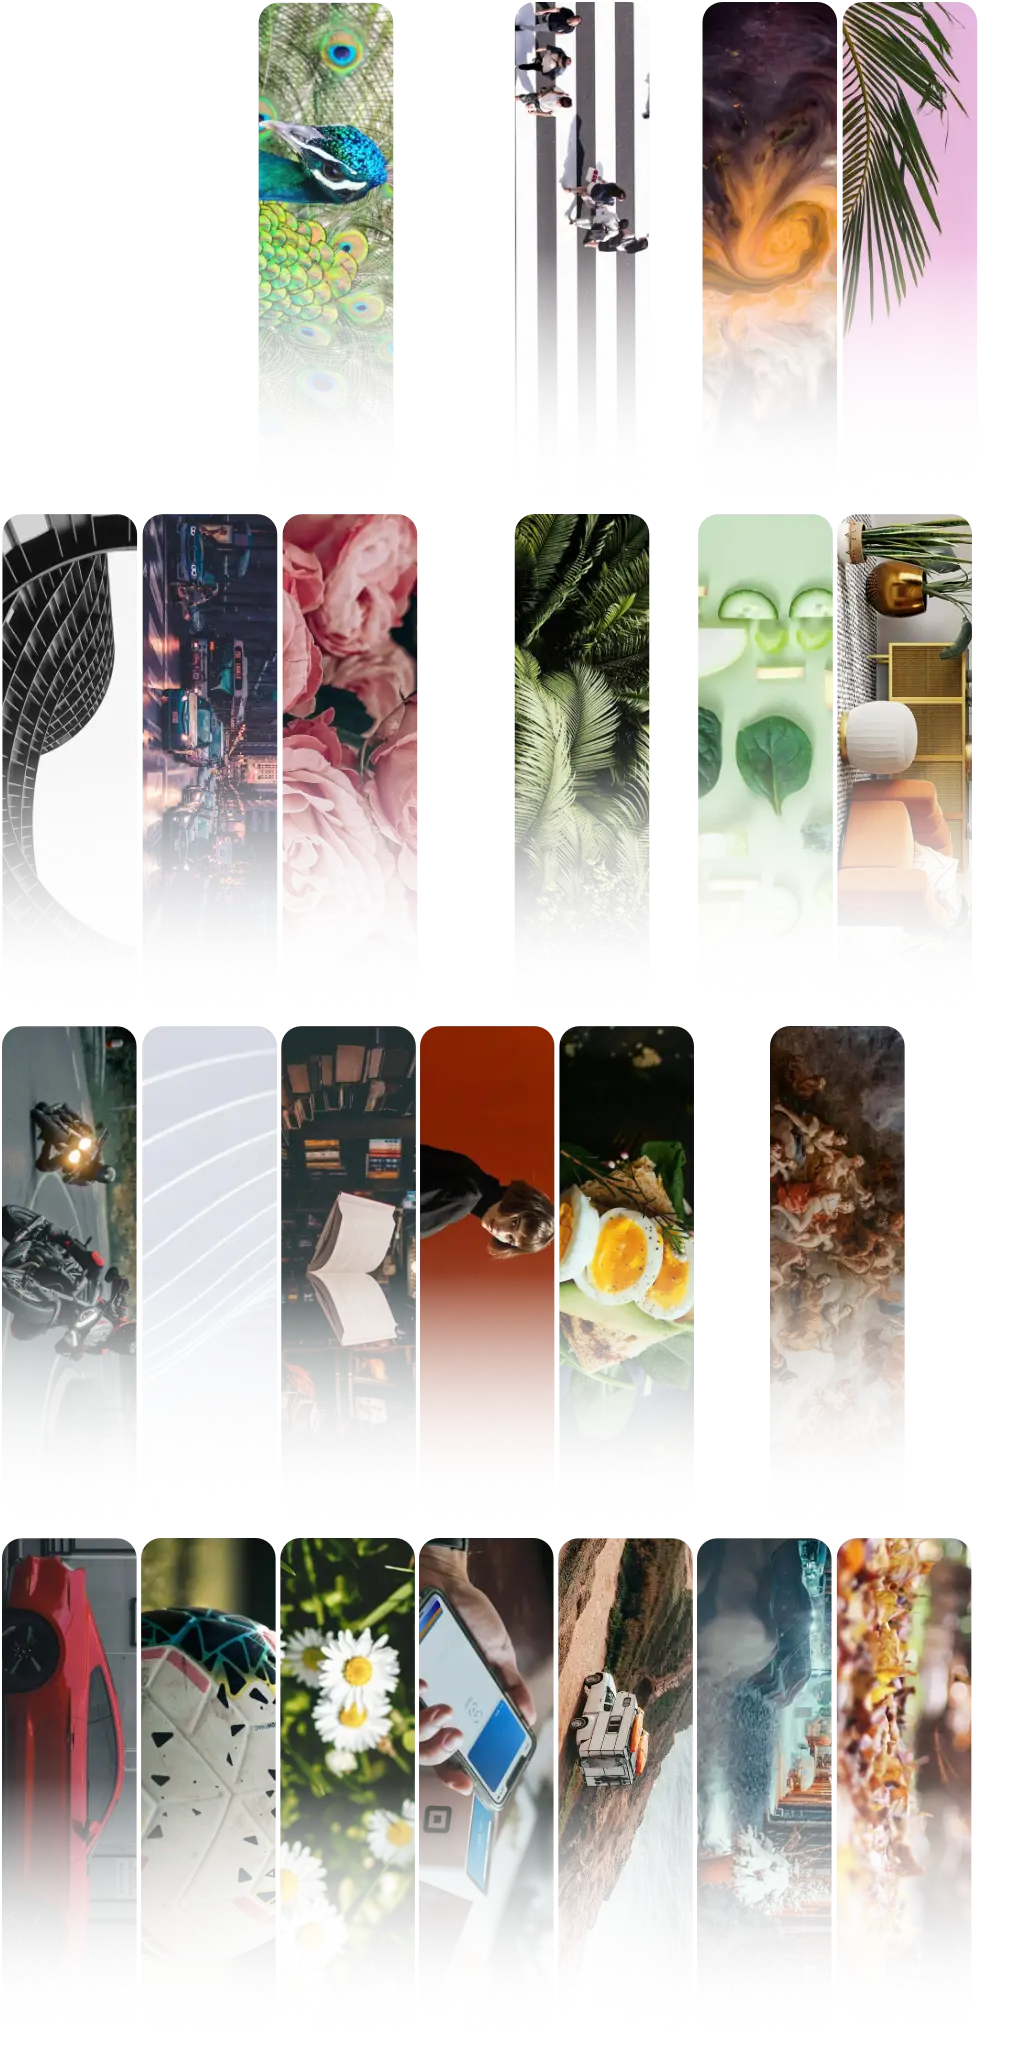
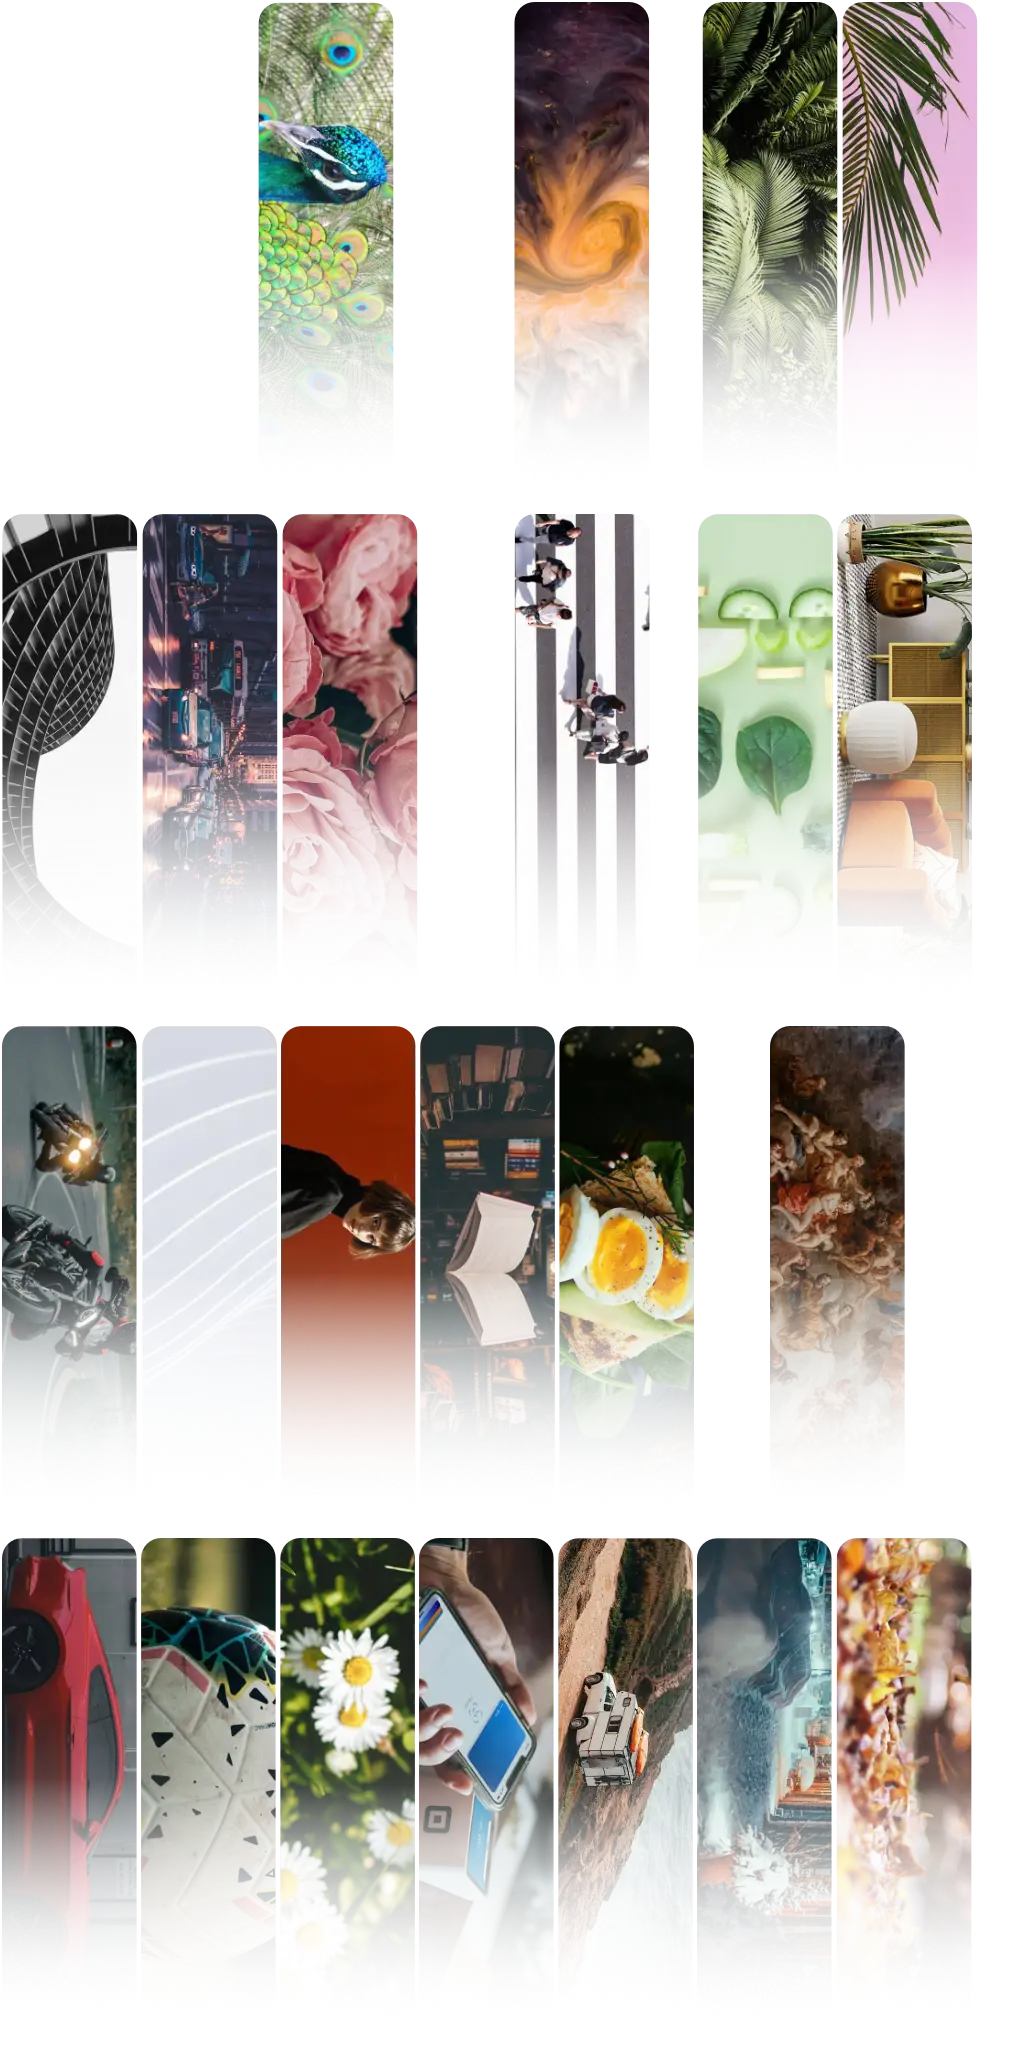
-

diff --git a/puzzlegame_test/game_html/scripts/c3runtime.js b/puzzlegame_test/game_html/scripts/c3runtime.js
@@ -2043,6 +2043,13 @@ self.C3_ExpressionFuncs = [
 			const n3 = p._GetNode(3);
 			return () => f0(1, Math.round((((v1.GetValue() * v2.GetValue()) * 0.08) * (1 + (n3.ExpObject() * 0.03)))));
 		},
+		() => "savedTime",
+		() => 5,
+		() => "sound",
+		p => {
+			const n0 = p._GetNode(0);
+			return () => n0.ExpObject("shows");
+		},
 		p => {
 			const n0 = p._GetNode(0);
 			const n1 = p._GetNode(1);
@@ -2260,7 +2267,6 @@ self.C3_ExpressionFuncs = [
 			const n0 = p._GetNode(0);
 			return () => (n0.ExpObject() * 1.4);
 		},
-		() => 5,
 		p => {
 			const f0 = p._GetNode(0).GetBoundMethod();
 			const v1 = p._GetNode(1).GetVar();
@@ -2479,7 +2485,6 @@ self.C3_ExpressionFuncs = [
 			const n0 = p._GetNode(0);
 			return () => ((n0.ExpObject()) ? (0) : (1));
 		},
-		() => "sound",
 		() => "progress",
 		() => "Tutorial",
 		p => {
@@ -2527,15 +2532,6 @@ self.C3_ExpressionFuncs = [
 			const n0 = p._GetNode(0);
 			const v1 = p._GetNode(1).GetVar();
 			return () => n0.ExpObject(("step6." + v1.GetValue()));
-		},
-		() => "savedTime",
-		p => {
-			const n0 = p._GetNode(0);
-			return () => n0.ExpObject("shows");
-		},
-		p => {
-			const f0 = p._GetNode(0).GetBoundMethod();
-			return () => f0("Data");
 		},
 		p => {
 			const n0 = p._GetNode(0);
@@ -2625,6 +2621,7 @@ self.C3_ExpressionFuncs = [
 		() => 30,
 		() => "Lang",
 		() => "lang",
+		() => "orderCategories",
 		p => {
 			const n0 = p._GetNode(0);
 			const v1 = p._GetNode(1).GetVar();
@@ -2637,7 +2634,10 @@ self.C3_ExpressionFuncs = [
 			const n1 = p._GetNode(1);
 			return () => f0(n1.ExpObject(), "");
 		},
-		() => "orderCategories",
+		p => {
+			const f0 = p._GetNode(0).GetBoundMethod();
+			return () => f0("Data");
+		},
 		() => "Segments",
 		p => {
 			const n0 = p._GetNode(0);

diff --git a/puzzlegame_test/game_html/scripts/objRefTable.js b/puzzlegame_test/game_html/scripts/objRefTable.js
@@ -183,6 +183,7 @@ self.C3_GetObjectRefTable = function () {
 		C3.Plugins.Arr.Cnds.CompareCurrent,
 		C3.Plugins.Dictionary.Acts.AddKey,
 		C3.Plugins.System.Exps.max,
+		C3.Plugins.Date.Exps.Now,
 		C3.Plugins.NinePatch.Cnds.HasTags,
 		C3.Plugins.NinePatch.Exps.BBoxMidY,
 		C3.Plugins.Particles.Acts.SetXRandomiser,
@@ -263,9 +264,7 @@ self.C3_GetObjectRefTable = function () {
 		C3.Plugins.System.Acts.SetGroupActive,
 		C3.Plugins.Eponesh_GameScore.Acts.AchievementsUnlock,
 		C3.Plugins.Spritefont2.Cnds.OnTypewriterTextFinished,
-		C3.Plugins.Date.Exps.Now,
-		C3.Plugins.Dictionary.Acts.JSONLoad,
-		C3.Plugins.Eponesh_GameScore.Exps.PlayerGet,
+		C3.Plugins.Dictionary.Cnds.IsEmpty,
 		C3.Plugins.Arr.Acts.JSONLoad,
 		C3.Plugins.Dictionary.Cnds.HasKey,
 		C3.Plugins.Eponesh_GameScore.Acts.LeaderboardFetchPlayerRatingScoped,
@@ -298,13 +297,14 @@ self.C3_GetObjectRefTable = function () {
 		C3.Plugins.Eponesh_GameScore.Cnds.IsAdsPreloaderPlaying,
 		C3.Plugins.Eponesh_GameScore.Cnds.IsAdsRewardedPlaying,
 		C3.Plugins.AJAX.Acts.RequestFile,
-		C3.Plugins.Eponesh_GameScore.Exps.Language,
 		C3.Plugins.AJAX.Cnds.OnComplete,
 		C3.Plugins.Json.Acts.Parse,
 		C3.Plugins.AJAX.Exps.LastData,
 		C3.Plugins.Spritefont2.Cnds.IsBoolInstanceVarSet,
 		C3.Plugins.Spritefont2.Exps.Tags,
-		C3.Plugins.Eponesh_GameScore.Acts.PlayerWaitForReady,
+		C3.Plugins.Dictionary.Acts.JSONLoad,
+		C3.Plugins.Eponesh_GameScore.Exps.PlayerGet,
+		C3.Plugins.Eponesh_GameScore.Exps.Language,
 		C3.JavaScriptInEvents.E_segments_Event2_Act1,
 		C3.JavaScriptInEvents.E_segments_Event2_Act2,
 		C3.Plugins.Sprite.Acts.SetDefaultColor,